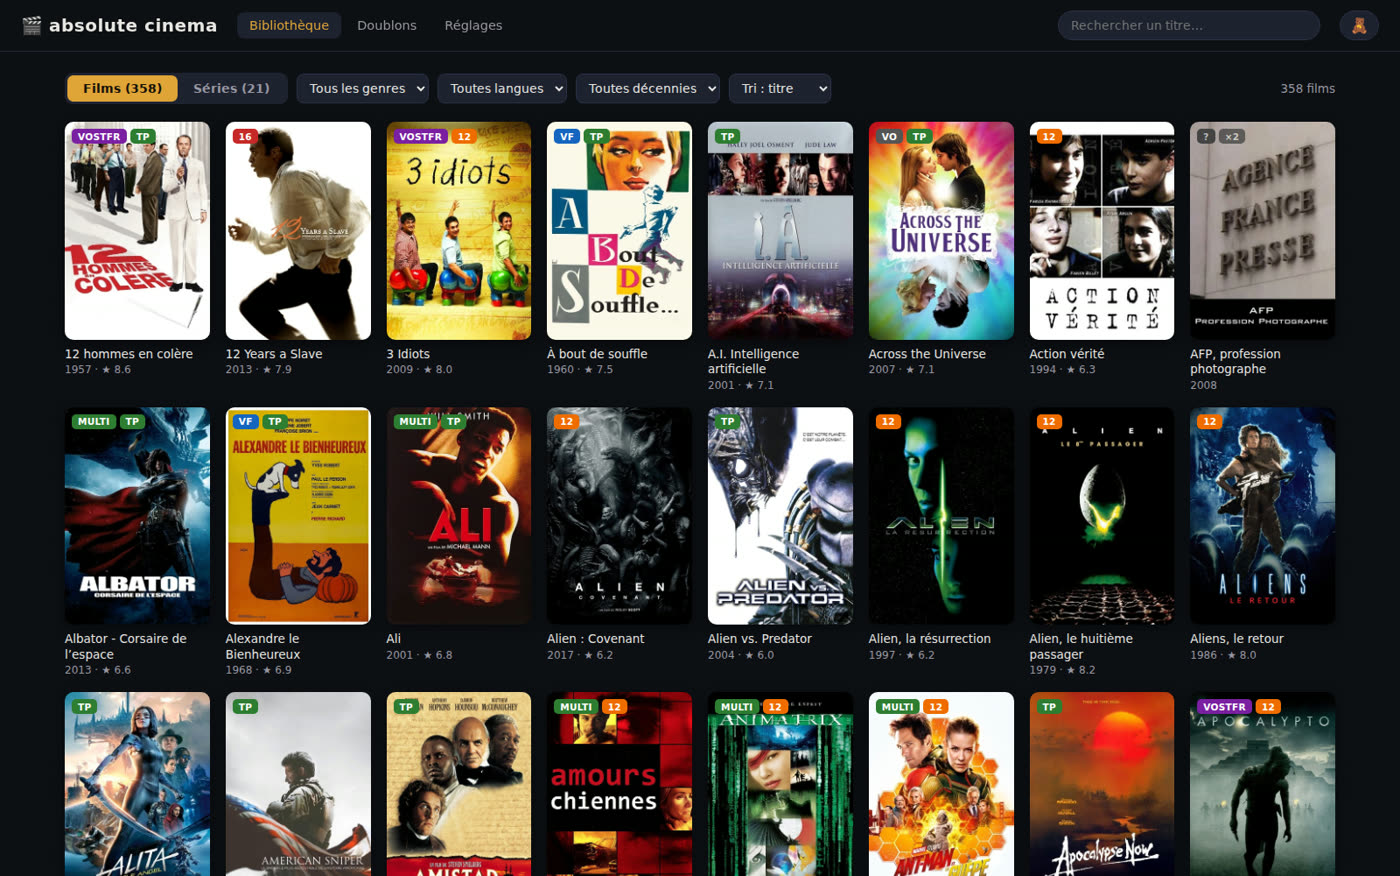
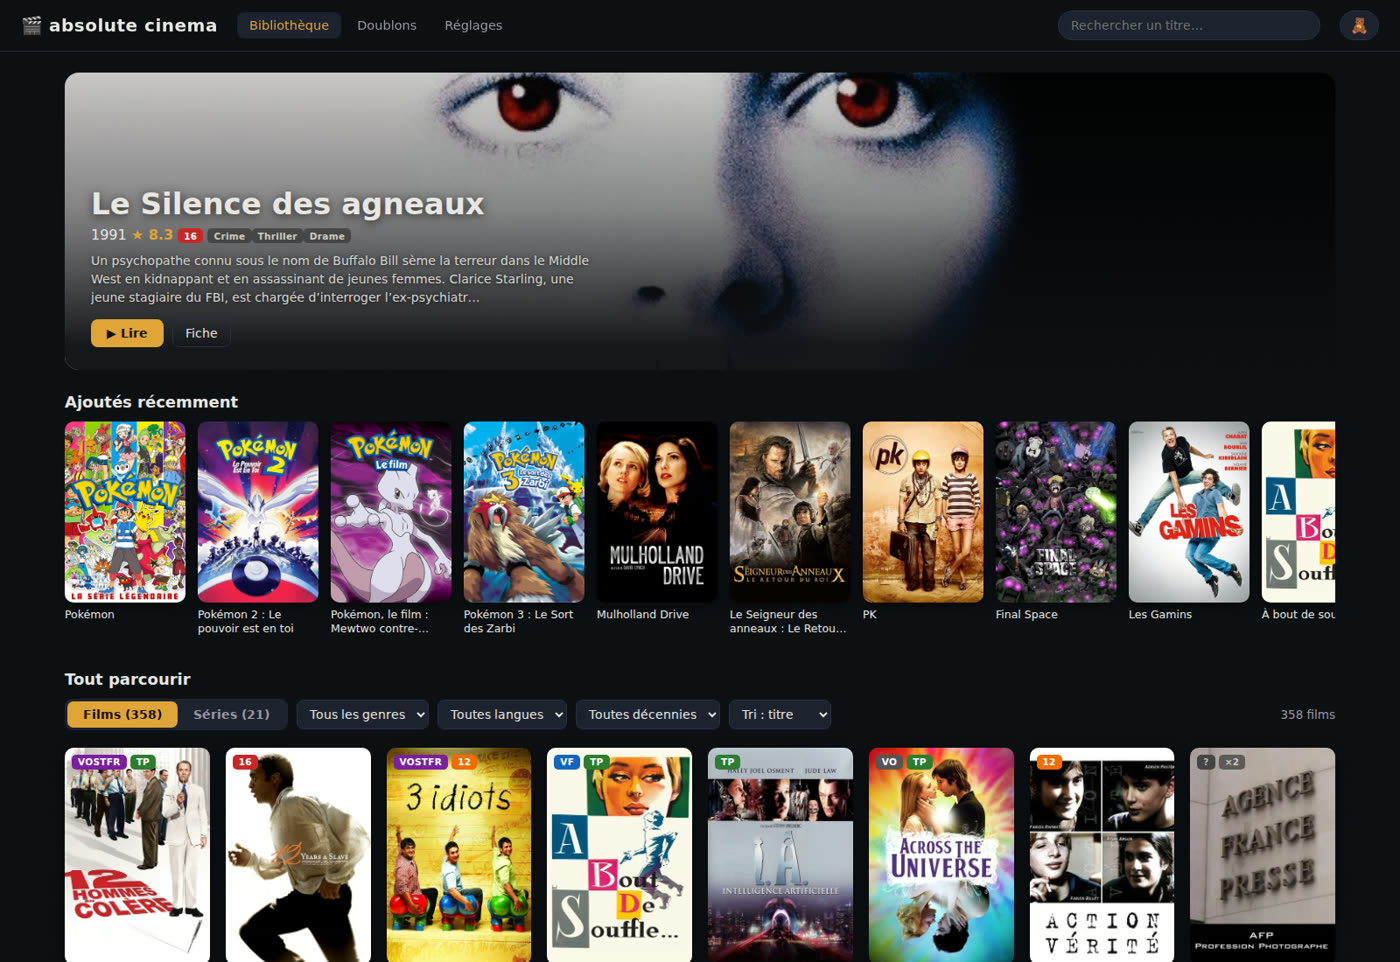
docs: analyse concurrentielle, v1.3.0, changelog, landing (lecteur intégré)
Claude-Session: https://claude.ai/code/session_01EzuZN9sbktAwb1EQA13kUh

diff --git a/docs/index.html b/docs/index.html
@@ -118,6 +118,7 @@ footer a { color: var(--muted); }
   <div class="features">
     <div class="feat"><b>🔍 Il reconnaît (presque) tout</b><span>Fichiers mal nommés, trilogies en vrac, séries mélangées : plus de 99 % de reconnaissance mesurée sur une vraie collection.</span></div>
     <div class="feat"><b>🧸 Mode enfant</b><span>Un code PIN, un âge maximum : les enfants ne voient que ce qui est de leur âge (classification officielle des films).</span></div>
+    <div class="feat"><b>▶ Lecture intégrée + reprise</b><span>Les films se lisent dans l'application, avec sous-titres, et reprennent où vous en étiez — même sur un autre ordinateur. VLC prend le relais pour les formats exotiques.</span></div>
     <div class="feat"><b>🈶 VF, VO, VOSTFR</b><span>La langue de chaque version est détectée, les sous-titres sont retrouvés et chargés.</span></div>
     <div class="feat"><b>🧹 Chasse aux doublons</b><span>Les films en double sont repérés et comparés — vous récupérez des gigaoctets.</span></div>
     <div class="feat"><b>📺 Films et séries</b><span>Saisons, épisodes, résumés d'épisodes en français.</span></div>

diff --git a/docs/en/index.html b/docs/en/index.html
@@ -120,6 +120,7 @@ footer a { color: var(--muted); }
   <div class="features">
     <div class="feat"><b>🔍 It recognizes (almost) everything</b><span>Badly named files, loose trilogies, mixed-up shows: over 99% recognition measured on a real collection.</span></div>
     <div class="feat"><b>🧸 Kids mode</b><span>A PIN code and a maximum age: kids only see age-appropriate titles (official movie ratings).</span></div>
+    <div class="feat"><b>▶ Built-in player + resume</b><span>Movies play right in the app, with subtitles, and resume where you left off — even on another computer. VLC takes over for exotic formats.</span></div>
     <div class="feat"><b>🈶 Languages & subtitles</b><span>Audio language detection, external subtitles found and loaded automatically.</span></div>
     <div class="feat"><b>🧹 Duplicate hunting</b><span>Duplicate movies are spotted and compared — reclaim gigabytes.</span></div>
     <div class="feat"><b>📺 Movies and TV shows</b><span>Seasons, episodes, episode summaries.</span></div>

diff --git a/internal/server/web/app.js b/internal/server/web/app.js
@@ -1,7 +1,7 @@
 /* absolute_cinema — interface (vanilla JS, routing par hash) */
 "use strict";
 
-const APP_VERSION = "1.2.0";
+const APP_VERSION = "1.3.0";
 const GITHUB_REPO = "Bist0uille/Absolute_cinema";
 
 const $ = (sel, el = document) => el.querySelector(sel);

diff --git a/marketing/analyse-concurrence.md b/marketing/analyse-concurrence.md
@@ -1,0 +1,53 @@
+# Analyse concurrentielle — Absolute Cinema vs Plex / Jellyfin / Emby / Kodi
+
+*Mise à jour : juillet 2026. Contexte : Plex a triplé son pass lifetime à 749 $
+(07/2026), Jellyfin (gratuit) domine chez les technophiles mais exige un serveur.*
+
+## Notre position
+
+Tous les concurrents sont des **serveurs** : une machine allumée, une installation,
+des clients à connecter. Nous sommes **le disque** : zéro machine dédiée, zéro
+installation, zéro compte. Chaque fonctionnalité s'évalue à l'aune d'une règle :
+**est-ce que ça reste « je branche, ça marche » ?**
+
+## Ce qu'ils ont — et ce qu'on en fait
+
+| Fonctionnalité | Plex | Jellyfin | Nous (v1.3) | Décision |
+|---|---|---|---|---|
+| Reconnaissance auto + affiches | ✓ | ✓ | ✓ (99,8 % mesuré) | ✅ fait |
+| Reprise de lecture / « Continuer » | ✓ | ✓ | ✓ (suit le disque, pas l'ordinateur !) | ✅ fait (v1.3) |
+| Lecture dans le navigateur | ✓ | ✓ | ✓ h264/webm, repli VLC sinon | ✅ fait (v1.3) |
+| Accueil type Netflix (héros, rangées) | ✓ | ✓ | ✓ héros + Reprendre + Récents | ✅ fait (v1.3) |
+| Épisode suivant / suivi des vus | ✓ | ✓ | ✓ | ✅ fait (v1.3) |
+| Contrôle parental | Plex Pass | ✓ | ✓ PIN + visas officiels, côté serveur | ✅ fait (v1.2) |
+| Scan automatique | ✓ | ✓ | ✓ à chaque ouverture | ✅ fait (v1.3) |
+| Multilingue | ✓ | ✓ | ✓ FR/EN | ✅ fait (v1.2) |
+| Accès TV/tablette du foyer | ✓ | ✓ | ✓ option réseau local (navigateur TV) | ✅ fait (v1.3, basique) |
+| **Transcodage à la volée** | Pass | ✓ | ✗ | ❌ refusé : c'est LE truc qui exige un serveur puissant, de la config, du matériel. Notre réponse : repli VLC (lit tout, nativement). |
+| **Streaming à distance (hors du foyer)** | ✓ | ~ | ✗ | ❌ refusé : comptes, relais, sécurité, bande passante — l'anti-thèse du produit. Le disque EST le transport. |
+| Applis mobiles/TV natives | ✓ | ✓ | ✗ (web responsive) | ⏸ plus tard si traction ; le navigateur suffit au pilote |
+| Skip intro / crédits | Pass | plugin | ✗ | ❌ refusé : détection lourde, gadget |
+| DVR / TV en direct | Pass | ✓ | ✗ | ❌ hors sujet |
+| Profils multi-utilisateurs | ✓ | ✓ | ✗ (mode enfant = le vrai besoin famille) | ⏸ à envisager en « profils légers » si demandé |
+| Plugins / extensions | ✓ | ✓ | ✗ | ❌ refusé : surface de maintenance et de sécurité |
+| Collections / listes | ✓ | ✓ | ✗ | ⏸ candidat simple (« sagas » auto via TMDB collections) |
+| Bandes-annonces | Pass | plugin | ✗ | ⏸ lien YouTube possible, à 1 clic — candidat facile |
+| Téléchargement de sous-titres | ✓ | plugin | ✗ | ⏸ OpenSubtitles a une API payante ; à étudier avec la monétisation |
+| DLNA (TV anciennes) | ✓ | ✓ | ✗ | ⏸ le mode réseau local couvre les TV modernes (navigateur) ; DLNA = gros chantier UPnP pour un parc en voie de disparition |
+
+## Nos avantages structurels (à marteler dans la comm)
+
+1. **La bibliothèque suit le disque** — reprise de lecture comprise. Chez Plex/Jellyfin,
+   changer de machine = tout reconfigurer ; chez nous c'est le cas d'usage nominal.
+2. **Hors ligne total** après le premier scan (cabane, van, avion, coupure).
+3. **Aucune maintenance** : pas de serveur qui tourne, pas de mises à jour de NAS.
+4. **Vie privée par construction** : aucun compte, aucune télémétrie, rien ne sort.
+
+## Faiblesses assumées (réponses prêtes pour les forums)
+
+- « Pas de transcodage ? » → VLC lit tout nativement, y compris ce que les serveurs
+  transcodent péniblement. Un clic de plus, zéro serveur de moins.
+- « Pas de streaming distant ? » → Le produit s'appelle vidéothèque *de poche* :
+  elle voyage physiquement. Pour le reste, Plex/Jellyfin existent.
+- « Une appli TV ? » → Option réseau local + navigateur de la TV. Natif à l'étude
+  si la demande le justifie.

diff --git a/CHANGELOG.md b/CHANGELOG.md
@@ -1,5 +1,20 @@
 # Changelog
 
+## v1.3.0-beta — 2026-07-03
+
+- **Built-in player**: movies and episodes now play inside the app (h264 mp4/mkv,
+  webm), with subtitles (on-the-fly SRT→VTT conversion, encoding repair), and a
+  one-click "Play in VLC" fallback for exotic formats (avi, x265, ISO)
+- **Resume playback**: positions are saved on the drive itself — pause on one
+  computer, resume on another; episodes are marked watched at 92%
+- **Netflix-style home**: hero banner, "Resume" row with progress bars,
+  "Recently added" row
+- **One-click play**: ▶ on poster hover, big Play/Resume button on detail pages,
+  TV shows start/resume the next unwatched episode automatically
+- **Auto-scan on every launch**: new files appear by themselves
+- **TV & tablets (local network)**: opt-in setting exposing the library to your
+  home Wi-Fi devices, with the TV address displayed
+
 ## v1.2.0-beta — 2026-07-03
 
 - **English support**: fully bilingual interface (auto-detected, switchable in
